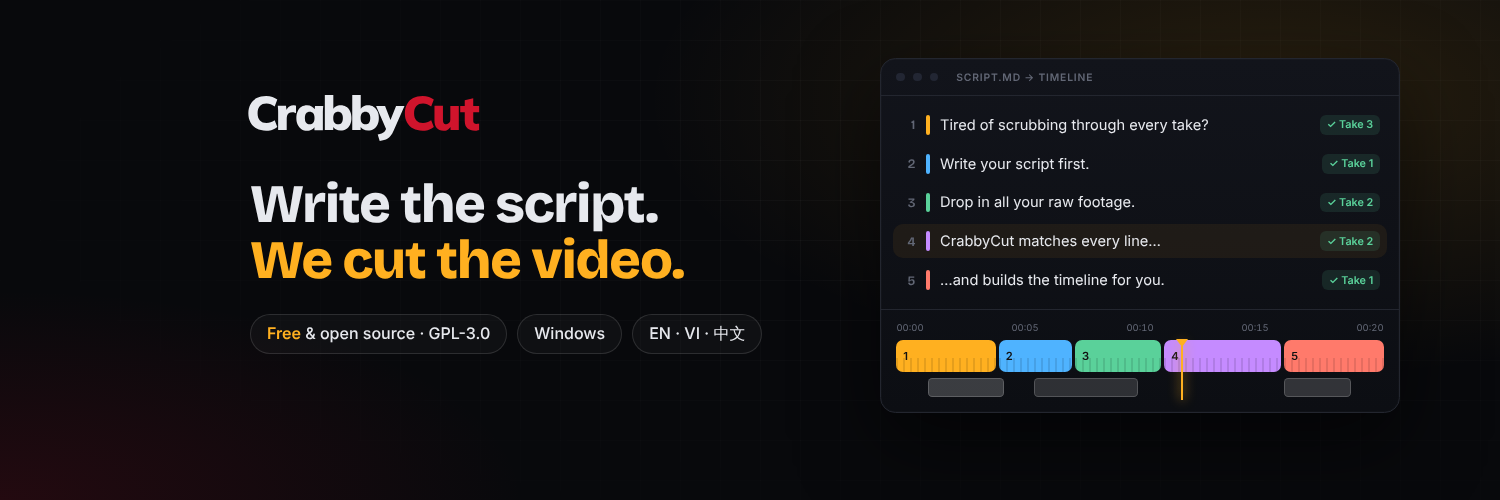
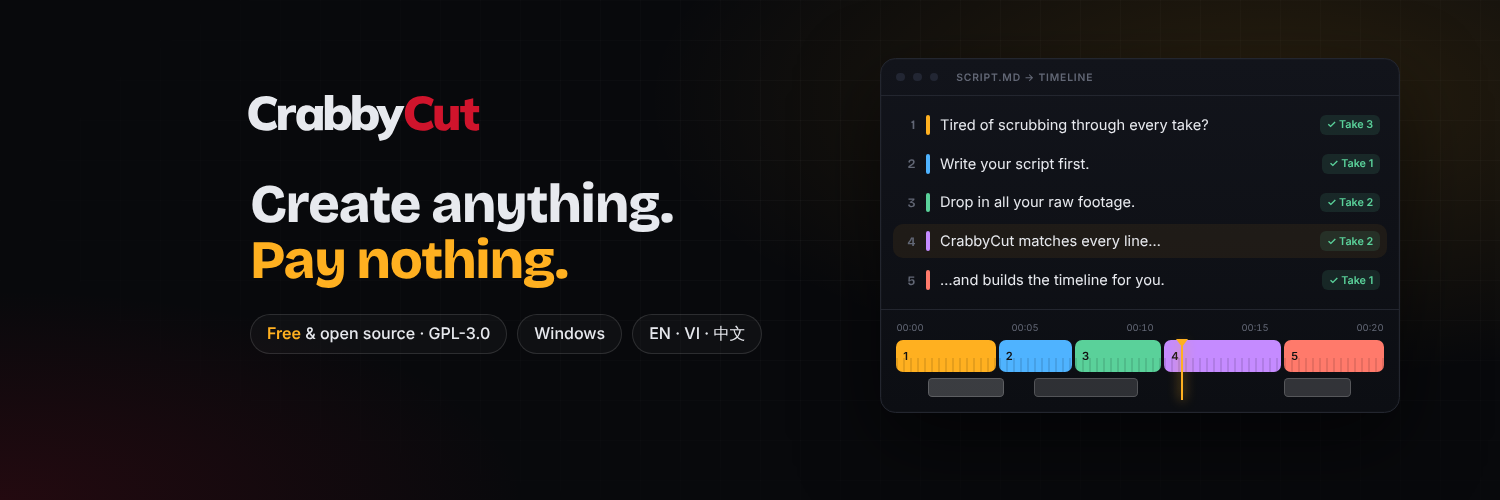
Đổi khẩu hiệu trên ảnh thành "Create anything. Pay nothing."
Claude-Session: https://claude.ai/code/session_01QkyQeaLcmzR9Tp3iJJagEA

Changed region(s): [[0.1533, 0.36, 0.46, 0.57]]

diff --git a/docs/brand/brand-assets.html b/docs/brand/brand-assets.html
@@ -63,7 +63,7 @@ h1 em{font-style:normal;color:var(--amber)}
   <div class="grid"></div>
   <div style="position:absolute;left:72px;top:72px;width:560px">
     <svg class="logo" viewBox="0 0 876.8 229.5" style="width:300px;margin-left:-14px"><use href="#logo-crabbycut"/></svg>
-    <h1 style="font-size:58px;margin-top:38px">Write the script.<br><em>We cut the video.</em></h1>
+    <h1 style="font-size:58px;margin-top:38px">Create anything.<br><em>Pay nothing.</em></h1>
     <p class="sub" style="font-size:21px;margin-top:22px;max-width:520px">AI transcribes your footage, matches every line to your script, picks the best take and builds the timeline.</p>
     <div class="chips" style="margin-top:30px"><span class="chip" style="font-size:16px;padding:8px 16px"><b>Free</b> &amp; open source · GPL-3.0</span><span class="chip" style="font-size:16px;padding:8px 16px">Windows</span><span class="chip" style="font-size:16px;padding:8px 16px">EN · VI · 中文</span></div>
   </div>
@@ -76,7 +76,7 @@ h1 em{font-style:normal;color:var(--amber)}
   <div class="grid"></div>
   <div style="position:absolute;left:250px;top:84px;width:600px">
     <svg class="logo" viewBox="0 0 876.8 229.5" style="width:250px;margin-left:-12px"><use href="#logo-crabbycut"/></svg>
-    <h1 style="font-size:54px;margin-top:28px">Write the script.<br><em>We cut the video.</em></h1>
+    <h1 style="font-size:54px;margin-top:28px">Create anything.<br><em>Pay nothing.</em></h1>
     <div class="chips" style="margin-top:26px"><span class="chip" style="font-size:16px;padding:8px 16px"><b>Free</b> &amp; open source · GPL-3.0</span><span class="chip" style="font-size:16px;padding:8px 16px">Windows</span><span class="chip" style="font-size:16px;padding:8px 16px">EN · VI · 中文</span></div>
   </div>
   <div class="slot" data-scale=".86" style="position:absolute;left:880px;top:58px;width:520px"></div>
@@ -88,7 +88,7 @@ h1 em{font-style:normal;color:var(--amber)}
   <div style="position:absolute;left:507px;top:508px;width:1546px;height:423px;display:flex;align-items:center;gap:60px">
     <div style="width:820px">
       <svg class="logo" viewBox="0 0 876.8 229.5" style="width:300px;margin-left:-14px"><use href="#logo-crabbycut"/></svg>
-      <h1 style="font-size:72px;margin-top:28px">Write the script.<br><em>We cut the video.</em></h1>
+      <h1 style="font-size:72px;margin-top:28px">Create anything.<br><em>Pay nothing.</em></h1>
       <div class="chips" style="margin-top:28px"><span class="chip" style="font-size:20px;padding:10px 20px"><b>Free</b> &amp; open source · GPL-3.0</span><span class="chip" style="font-size:20px;padding:10px 20px">Windows</span><span class="chip" style="font-size:20px;padding:10px 20px">EN · VI · 中文</span></div>
     </div>
     <div class="slot" data-scale=".80" style="width:520px"></div>
